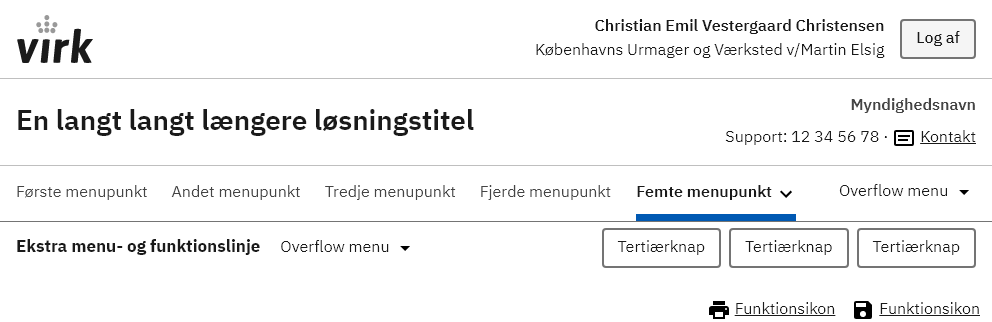
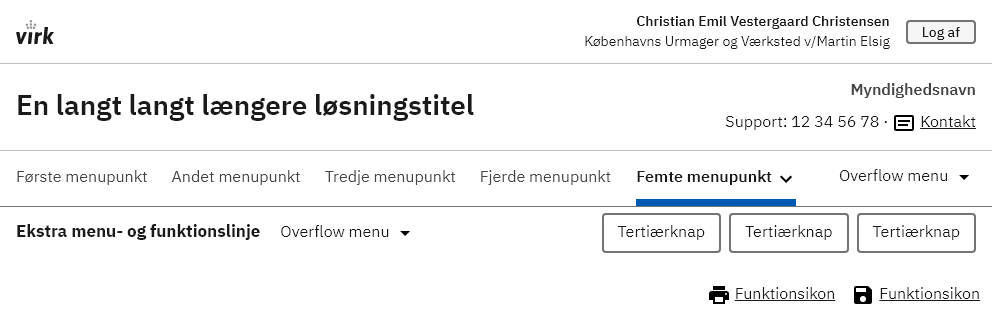
Update docs

diff --git a/docs/eksempel/header-full/index.html b/docs/eksempel/header-full/index.html
@@ -82,22 +82,22 @@
     <header class="header">
 
     <!-- Start: Portal header -->
-    <div class="portal-header">
+    <div class="portal-header portal-header-compact">
         <div class="container portal-header-inner">
             <!-- Start: Portallogo -->
             <a href="#" class="logo"><span class="d-none d-print-block">Portalnavn</span></a>
             <!-- Slut: Portallogo -->
 
-            <button class="button button-secondary button-menu-open js-menu-open ml-auto d-print-none" aria-haspopup="menu" title="Åben mobil menu">Menu</button>
+            <button class="button button-secondary button-small button-menu-open js-menu-open ml-auto d-print-none" aria-haspopup="menu" title="Åben mobil menu">Menu</button>
 
             <!-- Start: Persondetaljer -->
             <div class="portal-info">
                 <p class="user"><span class="weight-semibold">Christian
                         Emil Vestergaard
                         Christensen</span><br />Københavns Urmager og Værksted v/Martin Elsig</p>
-                <a href="#" class="button button-secondary d-print-none" role="button">
+                <button href="#" class="button button-secondary button-small d-print-none">
                     Log af
-                </a>
+                </button>
             </div>
             <!-- Slut: Persondetaljer -->
         </div>

diff --git a/docs/eksempel/header-medium/index.html b/docs/eksempel/header-medium/index.html
@@ -82,19 +82,19 @@
     <header class="header">
 
     <!--1A: Portal header -->
-    <div class="portal-header">
+    <div class="portal-header portal-header-compact">
         <div class="container portal-header-inner">
             <a href="#" title="Hjem" class="logo alert-leave"><span class="d-none d-print-block">Portalnavn</span></a>
-            <button class="button button-secondary button-menu-open js-menu-open ml-auto d-print-none" aria-haspopup="menu" title="Åben mobil menu">Menu</button>
+            <button class="button button-secondary button-small button-menu-open js-menu-open ml-auto d-print-none" aria-haspopup="menu" title="Åben mobil menu">Menu</button>
 
             <!-- 1B: Portal header: info + actions-->
             <div class="portal-info">
                 <p class="user"><span class="weight-semibold">Christian
                         Emil Vestergaard
                         Christensen</span><br />Københavns Urmager og Værksted v/Martin Elsig</p>
-                <a href="#" class="button button-secondary alert-leave d-print-none" role="button">
+                <button class="button button-secondary button-small alert-leave d-print-none">
                     Log af
-                </a>
+                </button>
             </div>
         </div>
     </div>
